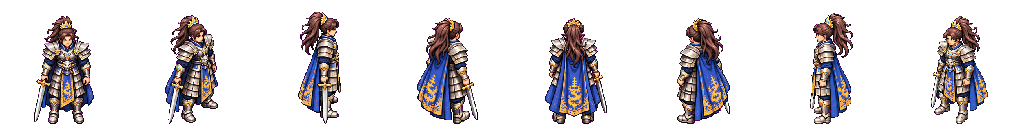
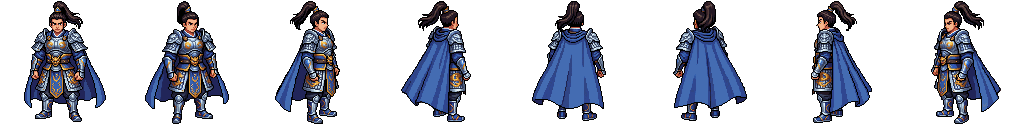
v85.1-0: 刪除舊人物檔,匯入新8角色(宗主/武將/弓修/法師×男女,站立8方向);女武將改苗條版
Claude-Session: https://claude.ai/code/session_01TfDhagCiaMjipPx8vrMTLg

diff --git a/sw.js b/sw.js
@@ -2,7 +2,7 @@
 // 讓遊戲可以「安裝到桌面/主畫面」成為獨立App，並提供離線快取(圖片/音效載入過一次後，
 // 離線或網路不穩時也能照常遊玩；index.html本身每次都優先抓最新版，確保更新後玩家能立刻拿到新內容)。
 
-const CACHE_VERSION = 'v85.0-0';           // 每次正式更新版本號時手動遞增，瀏覽器才會清掉舊快取換新的
+const CACHE_VERSION = 'v85.1-0';           // 每次正式更新版本號時手動遞增，瀏覽器才會清掉舊快取換新的
 const SHELL_CACHE = 'lineage-pixel-shell-' + CACHE_VERSION;
 const ASSET_CACHE  = 'lineage-pixel-assets-' + CACHE_VERSION;
 

diff --git a/index.html b/index.html
@@ -10869,7 +10869,7 @@ function drawSlotEmpty(x){ x.clearRect(0,0,200,200); }
 })();
 /* ============ 更新系統（登入首頁） ============ */
 // 版本號：每次正式更新時，這裡和 sw.js 的 CACHE_VERSION 一起遞增
-const GAME_VER='v85.0-0';
+const GAME_VER='v85.1-0';
 let _updNew=null;
 async function checkUpdate(manual){
   const msg=document.getElementById('updMsg'), btn=document.getElementById('updBtn');
